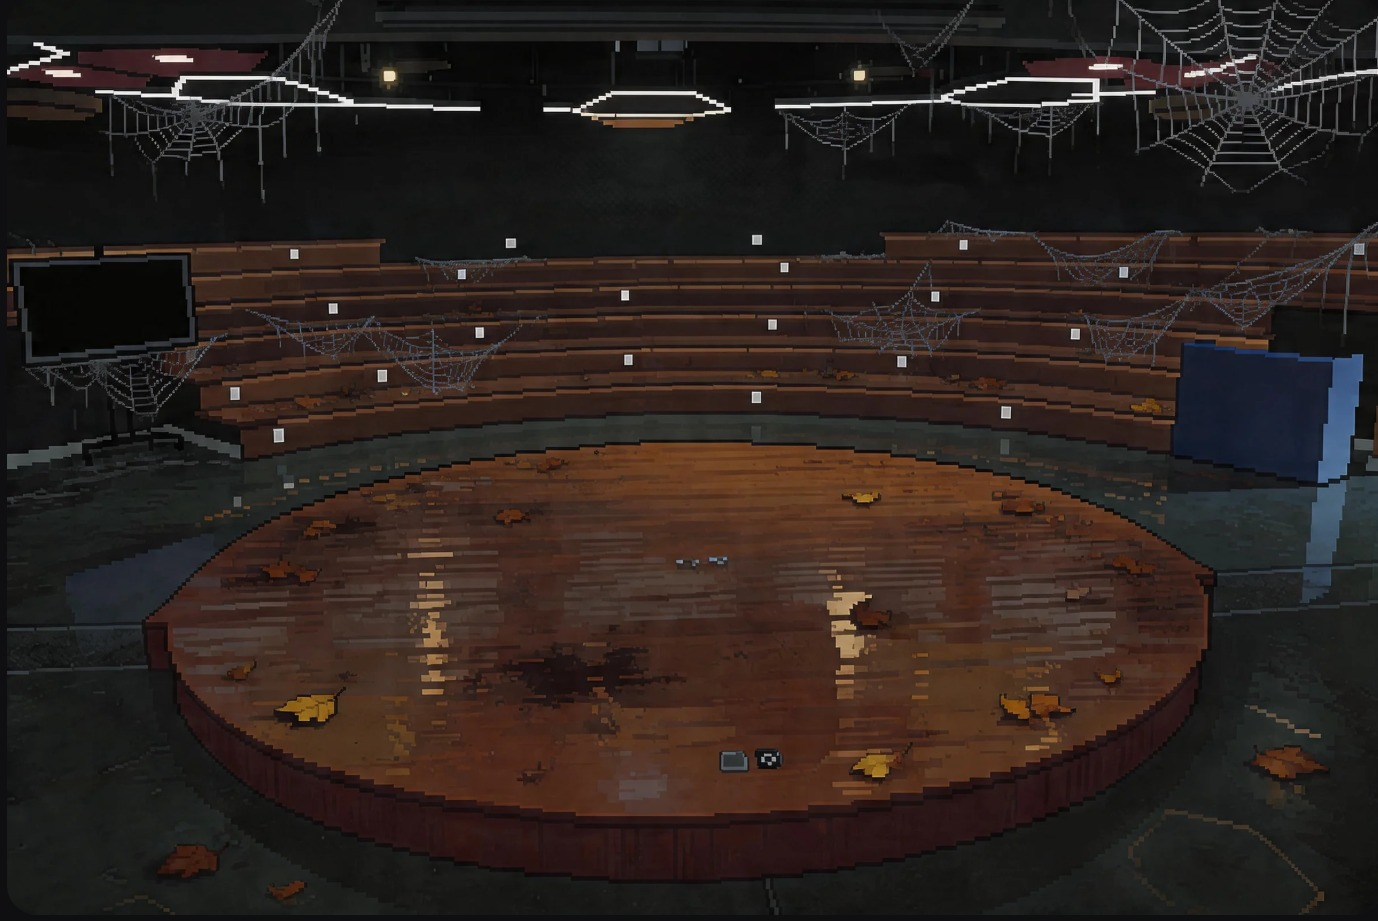
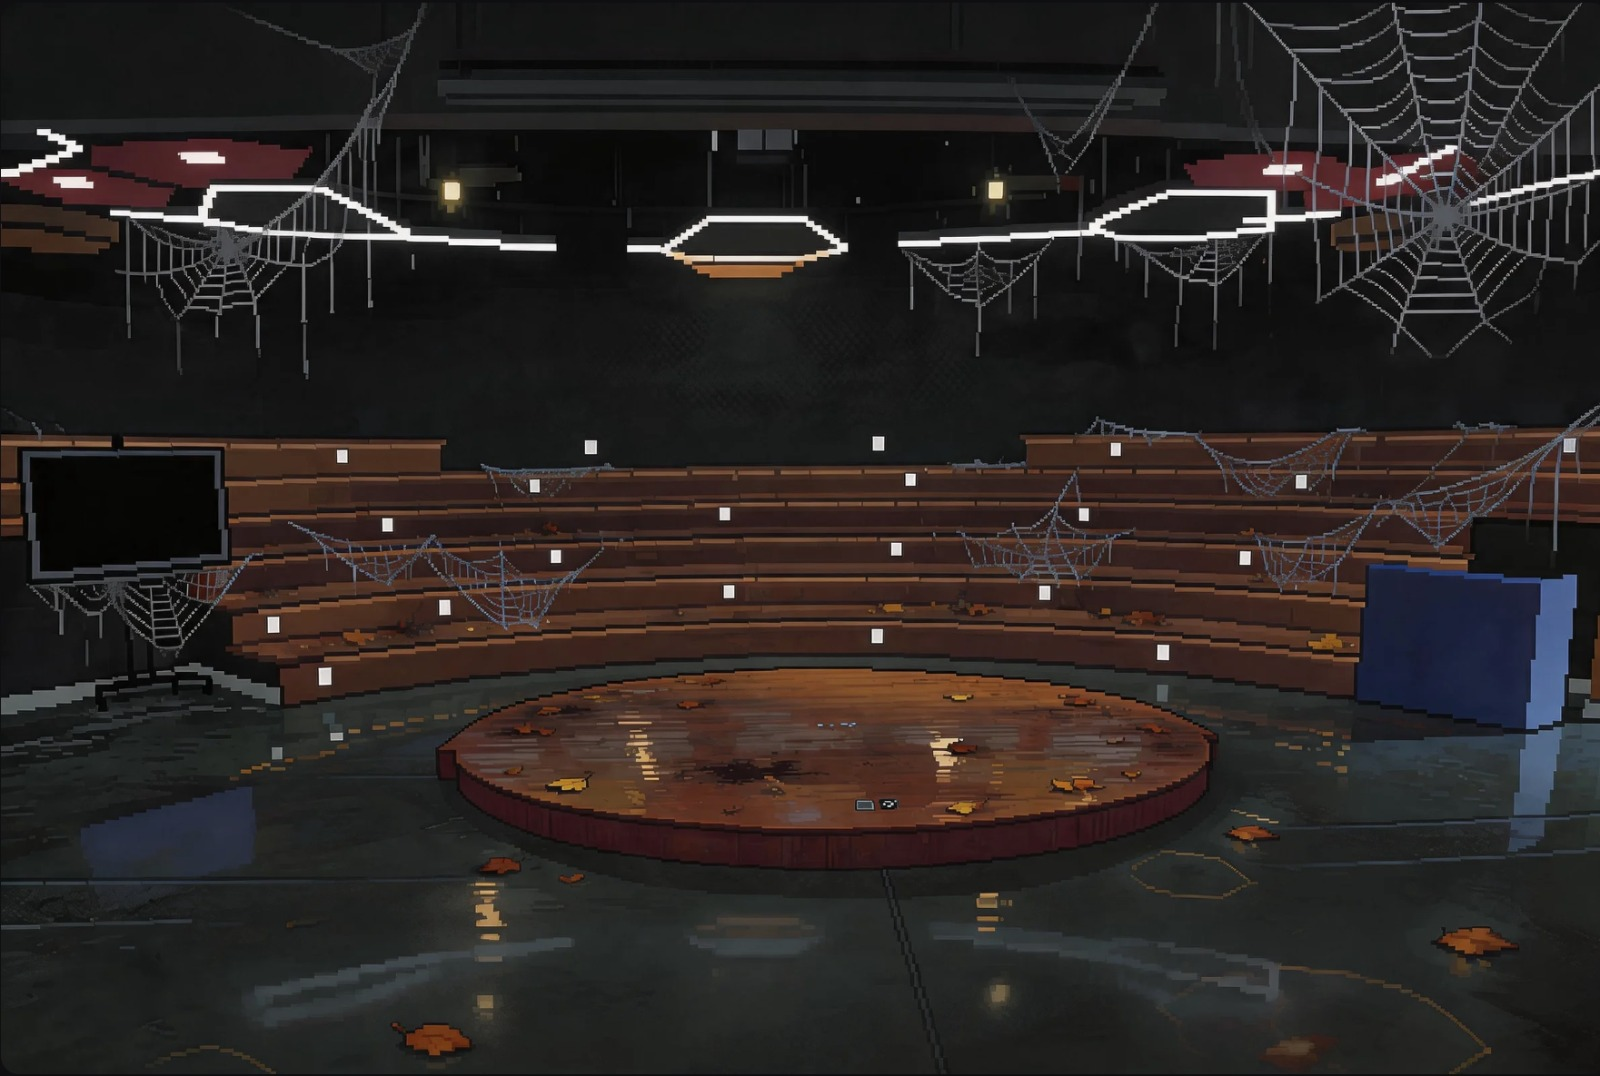
atualizações de codigo

diff --git a/lib/5-Manacas/salaPrincipal.dart b/lib/5-Manacas/salaPrincipal.dart
@@ -1,0 +1,52 @@
+import 'package:flutter/material.dart';
+
+class SalaPrincipalScreen extends StatelessWidget {
+  const SalaPrincipalScreen({super.key});
+
+  @override
+  Widget build(BuildContext context) {
+    return Scaffold(
+      body: Stack(
+        children: [
+          // Fundo (sala principal)
+          Container(
+            decoration: BoxDecoration(
+              image: DecorationImage(
+                image: AssetImage('assets/fundo/sala_principal_cap.jpeg'),
+                fit: BoxFit.cover,
+              ),
+            ),
+          ),
+          // Imagem do personagem posicionada com Positioned
+          Positioned(
+            top: 300,
+            left: 600,
+            child: SizedBox(
+              width: 900,
+              height: 550,
+              child: FittedBox(
+                fit: BoxFit.fill,
+                child: Image.asset('assets/personagens/capivarilda_atacada.png'),
+              ),
+            ),
+          ),
+          // Botão posicionado no canto inferior direito
+          Positioned(
+            bottom: 20,
+            right: 20,
+            child: ElevatedButton(
+              onPressed: () {
+                Navigator.popUntil(context, (route) => route.isFirst);
+              },
+              style: ElevatedButton.styleFrom(
+                backgroundColor: Colors.white,
+                foregroundColor: Colors.black,
+              ),
+              child: const Text('Reiniciar Fase'),
+            ),
+          ),
+        ],
+      ),
+    );
+  }
+}

diff --git a/lib/5-Manacas/entradaManacas.dart b/lib/5-Manacas/entradaManacas.dart
@@ -1,0 +1,43 @@
+import 'package:flutter/material.dart';
+import 'corredor.dart'; // verifique se o nome do arquivo está correto
+
+class EntradaScreen extends StatelessWidget {
+  const EntradaScreen({super.key});
+
+  @override
+  Widget build(BuildContext context) {
+    return Scaffold(
+      body: Stack(
+        children: [
+          // Imagem de fundo
+          Container(
+            decoration: const BoxDecoration(
+              image: DecorationImage(
+                image: AssetImage('assets/fundo/entrada_manacas.jpeg'),
+                fit: BoxFit.cover,
+              ),
+            ),
+          ),
+          // Imagem de pegadas clicável
+          Positioned(
+            bottom: 250,
+            right: 930,
+            child: GestureDetector(
+              onTap: () {
+                Navigator.push(
+                  context,
+                  MaterialPageRoute(builder: (_) => const CorredorScreen()),
+                );
+              },
+              child: Image.asset(
+                'assets/fundo/pegadas.png',
+                width: 300,
+                height: 200,
+              ),
+            ),
+          ),
+        ],
+      ),
+    );
+  }
+}

diff --git a/lib/5-Manacas/corredor.dart b/lib/5-Manacas/corredor.dart
@@ -1,0 +1,41 @@
+import 'package:flutter/material.dart';
+import 'salaPrincipal.dart';
+
+class CorredorScreen extends StatelessWidget {
+  const CorredorScreen({super.key});
+
+  @override
+  Widget build(BuildContext context) {
+    return Scaffold(
+      body: Stack(
+        children: [
+          Container(
+            decoration: BoxDecoration(
+              image: DecorationImage(
+                image: AssetImage('assets/fundo/corredor_manacas.jpeg'),
+                fit: BoxFit.cover,
+              ),
+            ),
+          ),
+          Positioned(
+            bottom: 80,
+            left: 800,
+            child: GestureDetector(
+              onTap: () {
+                Navigator.push(
+                  context,
+                  MaterialPageRoute(builder: (_) => const SalaPrincipalScreen()),
+                );
+              },
+              child: Image.asset(
+                'assets/fundo/pegadas.png',
+                width: 250,
+                height: 150,
+              ),
+            ),
+          ),
+        ],
+      ),
+    );
+  }
+}

diff --git a/lib/main.dart b/lib/main.dart
@@ -1,6 +1,7 @@
+import 'package:arquivocapivara_app/5-Manacas/entradaManacas.dart';
 import 'package:flutter/material.dart';
 import 'tela_inicial.dart';
-import '4-Arq/4-arquiteturaOUT.dart';
+//import '4-Arq/4-arquiteturaOUT.dart';
 
 void main() {
   runApp(MyApp());
@@ -17,7 +18,7 @@ class MyApp extends StatelessWidget {
         primaryColor: Colors.blue[900],
         fontFamily: 'monospace',
       ),
-      home: TelaInicial(),
+      home: EntradaScreen(),
     );
   }
 }
